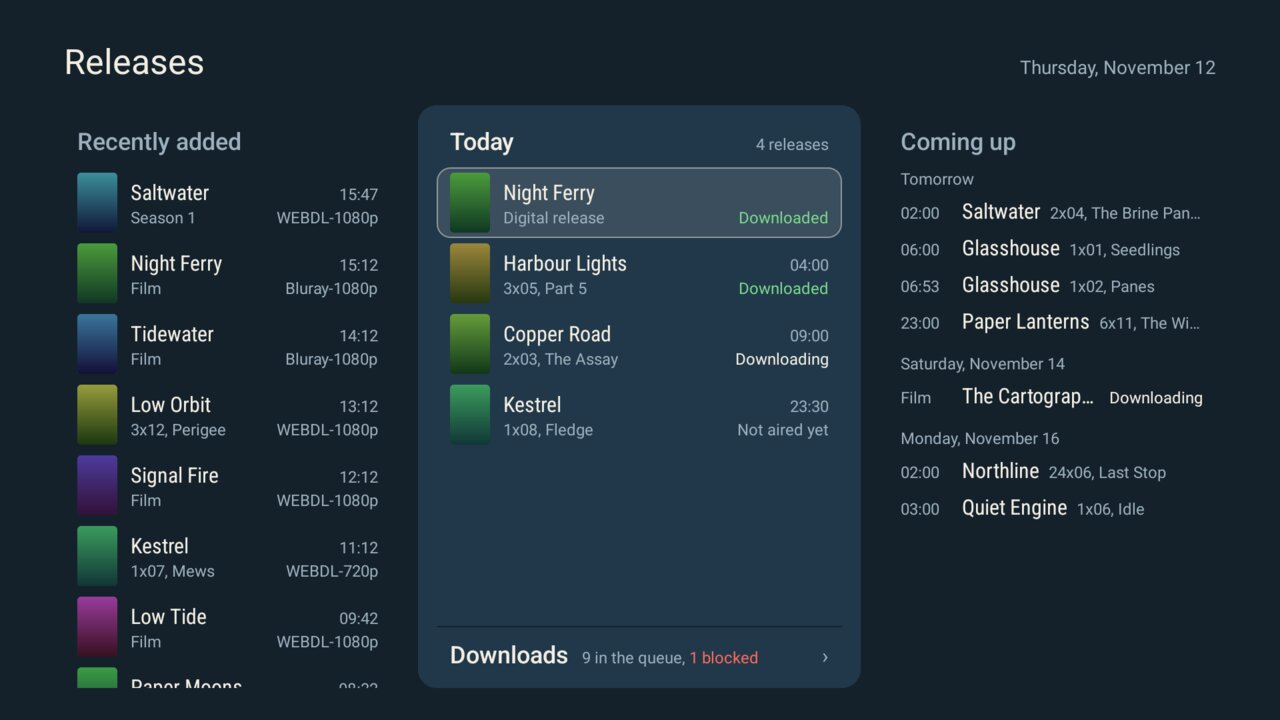
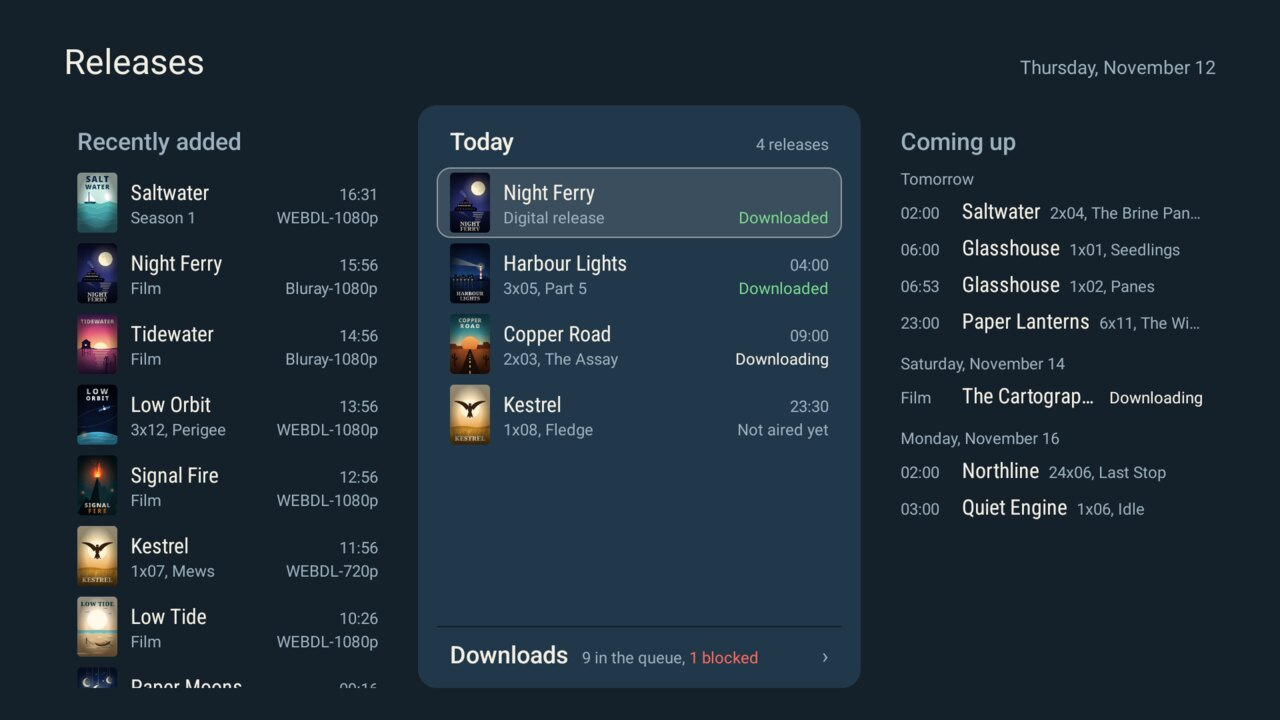
addons: Releases gets a screenshot of its Downloads view, and drawn posters
Both screenshots are from a Sony XR-55X90J (BRAVIA_VH2_EU), Google TV 12,
with invented titles from a stand-in server. The posters are drawn for
these screenshots: no photo and no outside picture is in them.

diff --git a/addons/releases/README.md b/addons/releases/README.md
@@ -10,6 +10,8 @@ on the TV. For the [Clean Your TV](../../README.md) launcher it declares a [modu
 | Today | The films, then the episodes by air time, each with its poster and "Downloaded", "Downloading", "Blocked", "Missing", "Not aired yet" or "Not monitored". Today is the lit panel in the middle. |
 | Coming up | The next 7 days as an agenda. Days without a release are left out. |
 
+<img src="screenshot-downloads.jpg" width="640" alt="The Downloads view of Releases on a TV">
+
 A title or a detail that does not fit in its row scrolls while that row has the focus.
 
 At the foot of Today is the Downloads link, with how many downloads are in the queue and how many imports are
